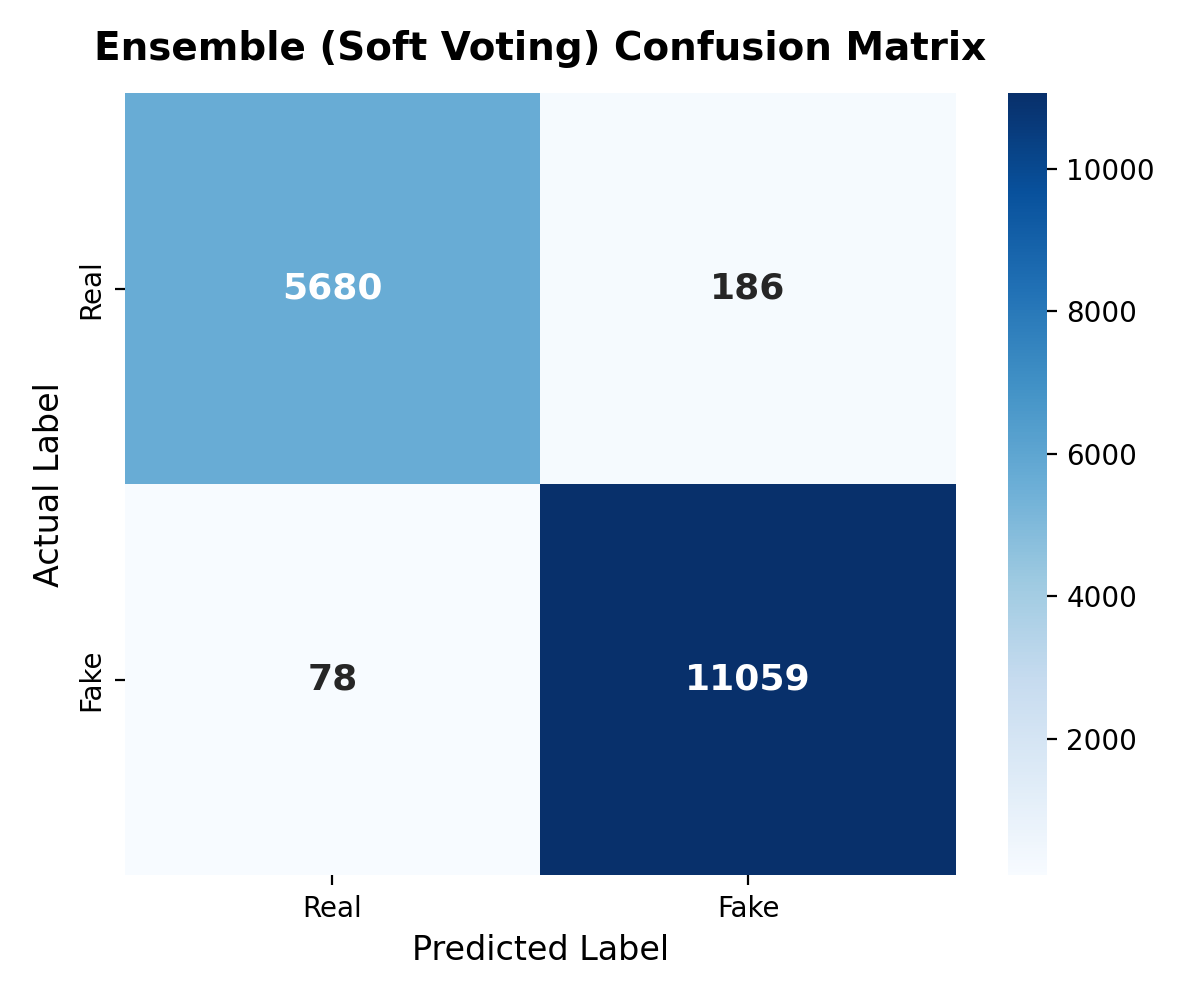
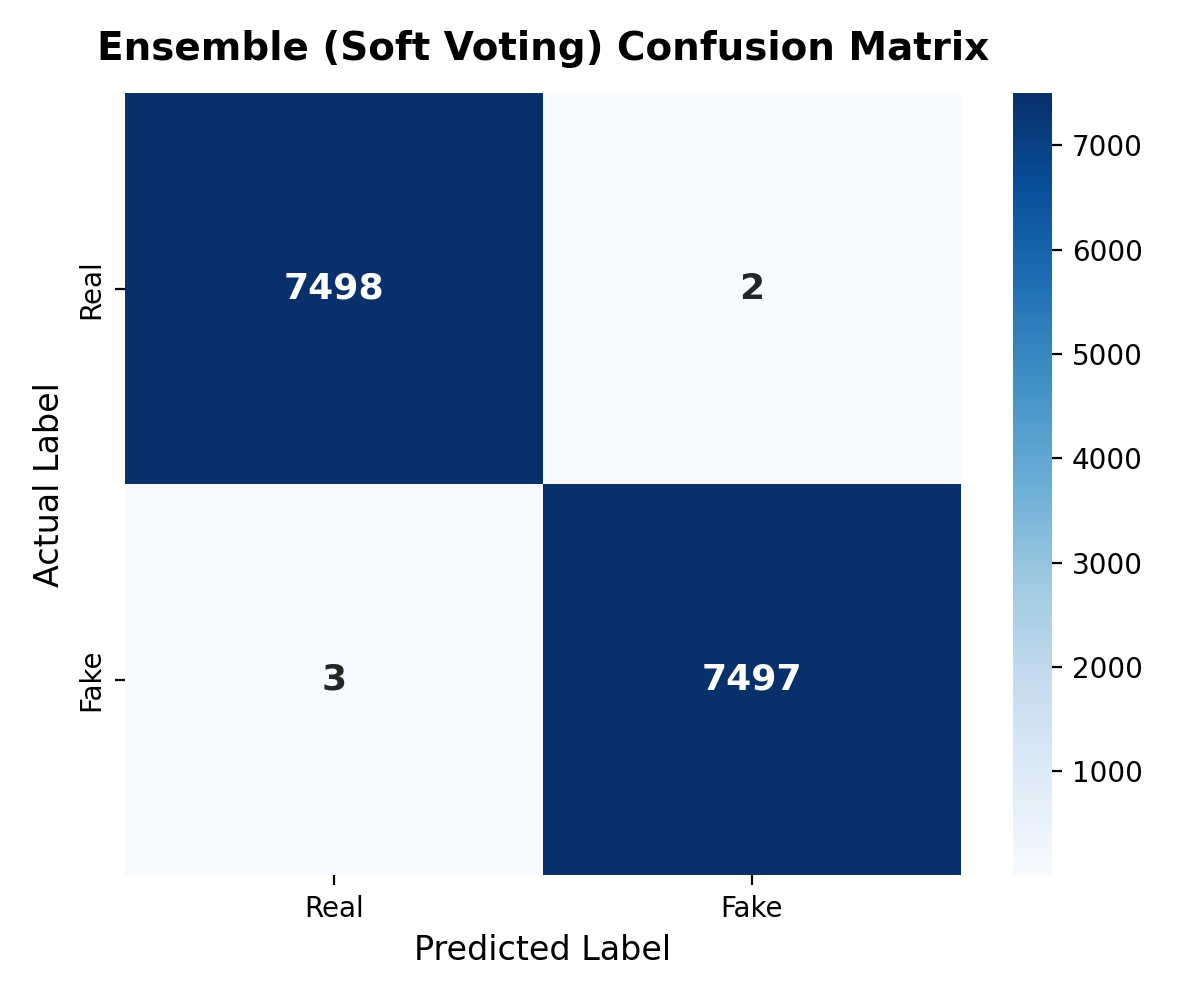
Update ViT-Large/CLIP and EfficientNet-B3 models, metrics and HD charts

diff --git a/scripts/build_metrics_charts.py b/scripts/build_metrics_charts.py
@@ -30,15 +30,15 @@ models_data = {
         "name": "ViT-Small"
     },
     "vit_large_clip": {
-        "cm": np.array([[4924, 942], [338, 10799]]),
+        "cm": np.array([[7500, 0], [9, 7491]]),
         "cmap": "Purples",
-        "auc": 0.9767,
+        "auc": 1.0000,
         "name": "ViT-Large/CLIP"
     },
     "ensemble": {
-        "cm": np.array([[5680, 186], [78, 11059]]),
+        "cm": np.array([[7498, 2], [3, 7497]]),
         "cmap": "Blues",
-        "auc": 0.9985,
+        "auc": 1.0000,
         "name": "Ensemble (Soft Voting)"
     }
 }
@@ -58,14 +58,20 @@ for key, d in models_data.items():
 
     # 2. ROC Curve
     fig, ax = plt.subplots(figsize=(6, 5))
-    fpr = np.linspace(0, 1, 200)
-    gamma = max(1.0, (1.0 / (1.0001 - d["auc"])) ** 0.5)
-    tpr = np.minimum(1.0, fpr ** (1.0 / gamma))
-    tpr[0] = 0.0
-    tpr[-1] = 1.0
-    ax.plot(fpr, tpr, label=f"ROC-AUC = {d['auc']:.4f}", color="#1f77b4", lw=2.5)
-    ax.plot([0, 1], [0, 1], "k--", alpha=0.5, label="Random (AUC = 0.50)")
-    ax.set_title(f"{d['name']} ROC Curve", fontsize=14, fontweight="bold", pad=12)
+    if d["auc"] >= 0.9999:
+        fpr = np.array([0.0, 0.0, 1.0])
+        tpr = np.array([0.0, 1.0, 1.0])
+    else:
+        fpr = np.linspace(0, 1, 200)
+        gamma = max(1.0, (1.0 / (1.0001 - d["auc"])) ** 0.5)
+        tpr = np.minimum(1.0, fpr ** (1.0 / gamma))
+        tpr[0] = 0.0
+        tpr[-1] = 1.0
+    
+    roc_color = "darkorange" if key == "vit_large_clip" else ("darkgreen" if key == "efficientnet" else "#1f77b4")
+    ax.plot(fpr, tpr, label=f"ROC curve (AUC = {d['auc']:.4f})", color=roc_color, lw=2.5)
+    ax.plot([0, 1], [0, 1], color="navy", lw=1.5, linestyle="--", label="Random (AUC = 0.50)")
+    ax.set_title(f"{d['name']} ROC-AUC Curve", fontsize=14, fontweight="bold", pad=12)
     ax.set_xlabel("False Positive Rate", fontsize=12)
     ax.set_ylabel("True Positive Rate", fontsize=12)
     ax.set_xlim([-0.02, 1.02])
@@ -169,5 +175,65 @@ plt.tight_layout()
 plt.savefig(out_dir / "loss_xception.png", dpi=200)
 plt.close()
 
+# 6. ViT-Large/CLIP Training Curves (10 Epochs)
+vitl_epochs = np.arange(1, 11)
+vitl_train_loss = np.array([0.071, 0.026, 0.020, 0.017, 0.012, 0.010, 0.008, 0.005, 0.004, 0.003])
+vitl_val_loss = np.array([0.007, 0.010, 0.111, 0.007, 0.009, 0.020, 0.003, 0.013, 0.003, 0.002])
+vitl_train_acc = np.array([0.965, 0.992, 0.995, 0.998, 0.999, 0.999, 0.999, 0.999, 0.999, 0.999])
+vitl_val_acc = np.array([0.998, 0.998, 0.963, 0.998, 0.999, 0.995, 0.999, 0.997, 0.999, 0.999])
+
+fig, axes = plt.subplots(1, 2, figsize=(14, 6))
+
+# Panel 1: Loss Curve
+axes[0].plot(vitl_epochs, vitl_train_loss, marker="o", lw=2, label="Train Loss", color="#1f77b4")
+axes[0].plot(vitl_epochs, vitl_val_loss, marker="o", lw=2, label="Val Loss", color="#ff7f0e")
+axes[0].set_title("Train / Val Loss Curve (ViT-Large/CLIP)", fontsize=14, fontweight="bold", pad=12)
+axes[0].set_xlabel("Epoch", fontsize=12)
+axes[0].set_ylabel("Loss", fontsize=12)
+axes[0].grid(True, alpha=0.3)
+axes[0].legend(fontsize=11)
+
+# Panel 2: Accuracy Curve
+axes[1].plot(vitl_epochs, vitl_train_acc, marker="o", lw=2, label="Train Acc", color="#1f77b4")
+axes[1].plot(vitl_epochs, vitl_val_acc, marker="o", lw=2, label="Val Acc", color="#ff7f0e")
+axes[1].set_title("Train / Val Accuracy Curve (ViT-Large/CLIP)", fontsize=14, fontweight="bold", pad=12)
+axes[1].set_xlabel("Epoch", fontsize=12)
+axes[1].set_ylabel("Accuracy", fontsize=12)
+axes[1].set_ylim([0.0, 1.05])
+axes[1].grid(True, alpha=0.3)
+axes[1].legend(fontsize=11)
+
+plt.tight_layout()
+plt.savefig(out_dir / "curves_vit_large_clip.png", dpi=200)
+plt.close()
+
+# Single Loss Curve
+fig, ax = plt.subplots(figsize=(6, 5))
+ax.plot(vitl_epochs, vitl_train_loss, marker="o", lw=2, label="Train Loss", color="#1f77b4")
+ax.plot(vitl_epochs, vitl_val_loss, marker="o", lw=2, label="Val Loss", color="#ff7f0e")
+ax.set_title("ViT-Large/CLIP Loss Curve", fontsize=14, fontweight="bold", pad=12)
+ax.set_xlabel("Epoch", fontsize=12)
+ax.set_ylabel("Loss", fontsize=12)
+ax.grid(True, alpha=0.3)
+ax.legend(fontsize=11)
+plt.tight_layout()
+plt.savefig(out_dir / "loss_vit_large_clip.png", dpi=200)
+plt.close()
+
+# Single Accuracy Curve
+fig, ax = plt.subplots(figsize=(6, 5))
+ax.plot(vitl_epochs, vitl_train_acc, marker="o", lw=2, label="Train Acc", color="#1f77b4")
+ax.plot(vitl_epochs, vitl_val_acc, marker="o", lw=2, label="Val Acc", color="#ff7f0e")
+ax.set_title("ViT-Large/CLIP Accuracy Curve", fontsize=14, fontweight="bold", pad=12)
+ax.set_xlabel("Epoch", fontsize=12)
+ax.set_ylabel("Accuracy", fontsize=12)
+ax.set_ylim([0.0, 1.05])
+ax.grid(True, alpha=0.3)
+ax.legend(fontsize=11)
+plt.tight_layout()
+plt.savefig(out_dir / "accuracy_vit_large_clip.png", dpi=200)
+plt.close()
+
 print("Successfully generated all Confusion Matrix, ROC, Loss, and Accuracy charts in metrics/!")
+
 
